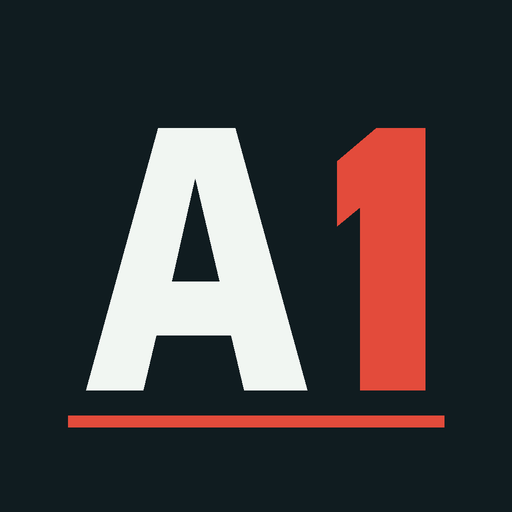
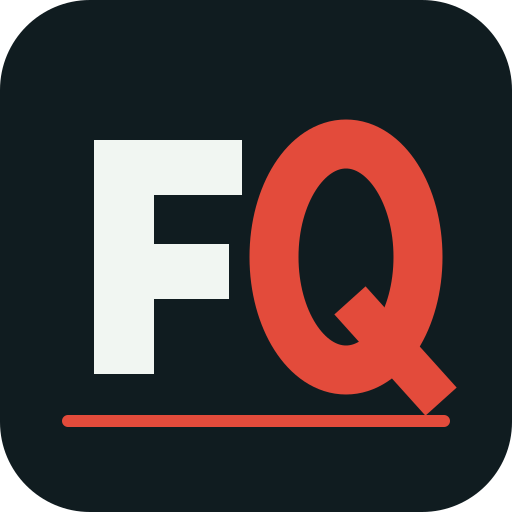
Rename game and installed app to Formula Q

diff --git a/src/main.ts b/src/main.ts
@@ -18,10 +18,10 @@ async function launch(): Promise<void> {
   app.innerHTML = `
     <main class="install-gate">
       <div class="install-card">
-        <div class="brand"><span class="brand-mark">A<span>1</span></span><span class="brand-name">APEX <strong>ONE</strong><small>TIME ATTACK</small></span></div>
+        <div class="brand"><span class="brand-mark">F<span>Q</span></span><span class="brand-name">Formula <strong>Q</strong><small>TIME ATTACK</small></span></div>
         <p class="install-eyebrow">HOME SCREEN EDITION</p>
         <h1>ホーム画面から、<br><em>コースへ。</em></h1>
-        <p class="install-lead">APEX ONEはWebアプリ専用です。ホーム画面に追加して、アプリのアイコンから起動してください。</p>
+        <p class="install-lead">Formula QはWebアプリ専用です。ホーム画面に追加して、アプリのアイコンから起動してください。</p>
         <p class="install-benefit">ブラウザのバーが隠れ、横画面いっぱいで運転できます。</p>
         <div class="install-instructions">
           <section><h2>iPhone / iPad</h2><p>Safariでこのページを開く → 共有 →「ホーム画面に追加」→「追加」。<br>「Webアプリとして開く」が表示されたらオンにします。</p></section>
@@ -48,7 +48,7 @@ async function launch(): Promise<void> {
       await pending.prompt();
       const { outcome } = await pending.userChoice;
       app.querySelector('#install-status')!.textContent = outcome === 'accepted'
-        ? '追加しました。ホーム画面またはアプリ一覧のAPEX ONEを開いてください。'
+        ? '追加しました。ホーム画面またはアプリ一覧のFormula Qを開いてください。'
         : 'メニューからも追加できます。追加後にアプリのアイコンを開いてください。';
     } catch {
       app.querySelector('#install-status')!.textContent = 'ブラウザのメニューから追加してください。';
@@ -59,7 +59,7 @@ async function launch(): Promise<void> {
   });
   window.addEventListener('appinstalled', () => {
     button.hidden = true;
-    app.querySelector('#install-status')!.textContent = '追加しました。APEX ONEのアイコンから起動してください。';
+    app.querySelector('#install-status')!.textContent = '追加しました。Formula Qのアイコンから起動してください。';
   });
 }
 

diff --git a/tools/contact-check.html b/tools/contact-check.html
@@ -1,3 +1,3 @@
-<!doctype html><html lang="ja"><head><meta charset="utf-8"><meta name="viewport" content="width=device-width, initial-scale=1"><title>Formula World 路面・立体交差の再生確認</title><style>
+<!doctype html><html lang="ja"><head><meta charset="utf-8"><meta name="viewport" content="width=device-width, initial-scale=1"><title>Formula Q 路面・立体交差の再生確認</title><style>
 html,body{margin:0;background:#0a1820;color:white;font:14px system-ui;overflow:hidden}canvas{display:block}aside{position:fixed;top:12px;left:12px;z-index:2;background:#071319dd;padding:12px;border-radius:8px;max-width:90vw}select,button{padding:6px;margin:4px}p{margin:5px 0;font-variant-numeric:tabular-nums}
 </style></head><body><aside><strong>路面・立体交差の走行経路再生</strong><br><select id="route"><option value="spa">Spa 登り勾配</option><option value="lower">鈴鹿 アンダーパス</option><option value="chicane">鈴鹿 最終シケイン</option><option value="monaco">モナコ ヌーベルシケイン</option><option value="upper">鈴鹿 橋の上</option></select><select id="offset"><option value="0">車線中央</option><option value="-3">右側に3m</option><option value="3">左側に3m</option><option value="left-edge">左の縁石を横断</option><option value="right-edge">右の縁石を横断</option></select><button id="pause">一時停止</button><p id="status">読み込み中…</p></aside><script type="module" src="./contact-check.ts"></script></body></html>

diff --git a/src/game.ts b/src/game.ts
@@ -63,7 +63,7 @@ app.innerHTML = `
   <div class="cinema-vignette" aria-hidden="true"></div>
 
   <header class="topbar">
-    <div class="brand">formula world</div>
+    <div class="brand">Formula Q</div>
     <div class="track-name"><span class="live-dot"></span> <span id="current-track-name">${TRACKS[0].name}</span> <span class="track-meta">/ DRY / 23°C</span></div>
     <div class="top-actions">
       <button id="sound-button" class="icon-button" type="button" aria-label="音を消す">♪</button>
@@ -119,7 +119,7 @@ app.innerHTML = `
       <button id="layout-button" class="secondary-button" type="button">ボタン配置を変更</button>
       <button id="start-button" class="primary-button" type="button">START ENGINE <span>↗</span></button>
     </div>
-    <div class="menu-footer"><span>FORMULA WORLD / SOLO TIME ATTACK</span><span>01 — ${String(TRACKS.length).padStart(2, '0')}</span></div>
+    <div class="menu-footer"><span>Formula Q / SOLO TIME ATTACK</span><span>01 — ${String(TRACKS.length).padStart(2, '0')}</span></div>
   </section>
 
   <section id="pause-overlay" class="menu-overlay paused" hidden>

diff --git a/index.html b/index.html
@@ -5,13 +5,13 @@
     <meta name="viewport" content="width=device-width, initial-scale=1, viewport-fit=cover, maximum-scale=1, user-scalable=no" />
     <meta name="theme-color" content="#10171a" />
     <meta name="apple-mobile-web-app-capable" content="yes" />
-    <meta name="apple-mobile-web-app-title" content="APEX ONE" />
+    <meta name="apple-mobile-web-app-title" content="Formula Q" />
     <meta name="apple-mobile-web-app-status-bar-style" content="black-translucent" />
     <link rel="manifest" href="%BASE_URL%manifest.webmanifest" />
     <link rel="icon" type="image/png" href="%BASE_URL%app-192.png" />
     <link rel="apple-touch-icon" href="%BASE_URL%app-180.png" />
     <meta name="description" content="オンボード視点で最速ラップを狙う、1台だけのフォーミュラ・タイムアタック。" />
-    <title>APEX ONE — Time Attack</title>
+    <title>Formula Q</title>
   </head>
   <body>
     <div id="app"></div>

diff --git a/tools/preview.html b/tools/preview.html
@@ -1,1 +1,1 @@
-<!doctype html><html lang="ja"><head><meta charset="UTF-8"><meta name="viewport" content="width=device-width,initial-scale=1,viewport-fit=cover"><title>Formula World development preview</title></head><body><div id="app"></div><script type="module">import '../src/style.css';import { loadNativeCircuit } from '../src/nativeCircuit.ts';await loadNativeCircuit('monza');await import('../src/game.ts');</script></body></html>
+<!doctype html><html lang="ja"><head><meta charset="UTF-8"><meta name="viewport" content="width=device-width,initial-scale=1,viewport-fit=cover"><title>Formula Q development preview</title></head><body><div id="app"></div><script type="module">import '../src/style.css';import { loadNativeCircuit } from '../src/nativeCircuit.ts';await loadNativeCircuit('monza');await import('../src/game.ts');</script></body></html>

diff --git a/public/sw.js b/public/sw.js
@@ -1,5 +1,5 @@
 /* Scope-relative URLs work on both GitHub Pages project sites and localhost. */
-const CACHE = 'apex-one-webapp-v1';
+const CACHE = 'apex-one-webapp-v2';
 self.addEventListener('install', event => {
   event.waitUntil(caches.open(CACHE).then(cache => cache.addAll([
     './', './manifest.webmanifest', './app-192.png', './app-512.png',

diff --git a/README.md b/README.md
@@ -1,4 +1,4 @@
-# APEX ONE
+# Formula Q
 
 1台で走る、オンボード視点のフォーミュラ・タイムアタックです。2025年のF1カレンダーから立体交差のある鈴鹿を除いた23コースとセパンの計24コースを選べます。車体と周辺施設は独自のデザインです。
 
@@ -6,7 +6,7 @@
 
 このゲームはWebアプリ専用です。通常のブラウザではインストール案内を表示し、走行できません。
 
-iPhone/iPad: Safariの共有 →「ホーム画面に追加」。表示される場合は「Webアプリとして開く」をオンにします。Android: Chromeの︙ →「ホーム画面に追加」→「インストール」。PCはChrome/Edgeのインストールアイコン、MacのSafariは「ファイル」→「Dockに追加」。追加したAPEX ONEのアイコンから起動してください。開発用localhostでも通常タブは案内画面になります。
+iPhone/iPad: Safariの共有 →「ホーム画面に追加」。表示される場合は「Webアプリとして開く」をオンにします。Android: Chromeの︙ →「ホーム画面に追加」→「インストール」。PCはChrome/Edgeのインストールアイコン、MacのSafariは「ファイル」→「Dockに追加」。追加したFormula Qのアイコンから起動してください。開発用localhostでも通常タブは案内画面になります。
 
 ## ローカル実行
 
